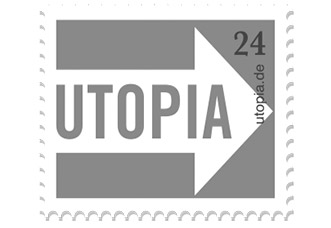
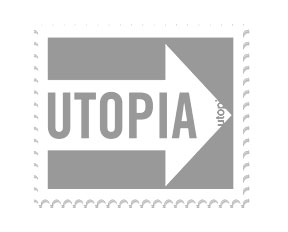
Update of press page
* added new assets
* remove old assets
* renamed components and links to habe consistent english
* updated Press component itself

diff --git a/src/views/Press.jsx b/src/views/Press.jsx
@@ -1,7 +1,7 @@
 import React from 'react';
 import Footer from '../components/Footer';
 
-export default function Presse() {
+export default function Press() {
   const Article = (props) => (
     <div className="bg-kaki p-4 mb-4 mt-4 font-open-sans w-full">
       <div className="text-xs text-gray-700">{props.date}</div>
@@ -124,32 +124,53 @@ export default function Presse() {
           </div>
         </div>
         <div className="my-8 flex flex-wrap mb-16">
-          <div className="w-1/3 h-auto">
-            <img alt="bunte" src={require('../assets/bunte_de.jpg')} />
+          <div className="w-1/4 h-auto">
+            <img alt="zdf" src={require('../assets/zdf.jpg')} />
           </div>
-          <div className="w-1/3 h-auto">
-            <img alt="businessinsider" src={require('../assets/business_insider.jpg')} />
+          <div className="w-1/4 h-auto">
+            <img alt="sueddeutsche_zeitung" src={require('../assets/sueddeutsche_zeitung.jpg')} />
           </div>
-          <div className="w-1/3 h-auto">
-            <img alt="rpr1" src={require('../assets/rpr1.jpg')} />
-          </div>
-          <div className="w-1/3 h-auto">
-            <img alt="utopia" src={require('../assets/utopia.jpg')} />
-          </div>
-          <div className="w-1/3 h-auto">
-            <img alt="bigfm" src={require('../assets/bigfm.jpg')} />
-          </div>
-          <div className="w-1/3 h-auto">
-            <img alt="br" src={require('../assets/br.jpg')} />
-          </div>
-          <div className="w-1/3 h-auto">
-            <img alt="cosmo" src={require('../assets/cosmo.jpg')} />
-          </div>
-          <div className="w-1/3 h-auto">
+          <div className="w-1/4 h-auto">
             <img alt="sat1" src={require('../assets/sat1.jpg')} />
           </div>
-          <div className="w-1/3 h-auto">
-            <img alt="zdf" src={require('../assets/zdf.jpg')} />
+          <div className="w-1/4 h-auto">
+            <img alt="berliner_morgenpost" src={require('../assets/berliner_morgenpost.jpg')} />
+          </div>
+          <div className="w-1/4 h-auto">
+            <img alt="deutschlandfunk" src={require('../assets/deutschlandfunk.jpg')} />
+          </div>
+          <div className="w-1/4 h-auto">
+            <img alt="wdr" src={require('../assets/wdr.jpg')} />
+          </div>
+          <div className="w-1/4 h-auto">
+            <img alt="hr" src={require('../assets/hr.jpg')} />
+          </div>
+          <div className="w-1/4 h-auto">
+            <img alt="br" src={require('../assets/br.jpg')} />
+          </div>
+          <div className="w-1/4 h-auto">
+            <img alt="welt" src={require('../assets/welt.jpg')} />
+          </div>
+          <div className="w-1/4 h-auto">
+            <img alt="focus_online" src={require('../assets/focus_online.jpg')} />
+          </div>
+          <div className="w-1/4 h-auto">
+            <img alt="greenpeace_magazin" src={require('../assets/greenpeace_magazin.jpg')} />
+          </div>
+          <div className="w-1/4 h-auto">
+            <img alt="aktion_mensch" src={require('../assets/aktion_mensch.jpg')} />
+          </div>
+          <div className="w-1/4 h-auto">
+            <img alt="utopia" src={require('../assets/utopia.jpg')} />
+          </div>
+          <div className="w-1/4 h-auto">
+            <img alt="vogue" src={require('../assets/vogue.jpg')} />
+          </div>
+          <div className="w-1/4 h-auto">
+            <img alt="cosmopolitan" src={require('../assets/cosmopolitan.jpg')} />
+          </div>
+          <div className="w-1/4 h-auto">
+            <img alt="bunte_de" src={require('../assets/bunte_de.jpg')} />
           </div>
         </div>
         {articles.map((article) => <Article {...article} key={article.link} />)}

diff --git a/src/App.jsx b/src/App.jsx
@@ -32,7 +32,7 @@ import CompleteOfferHelp from './views/CompleteOfferHelp';
 import NotifyMe from './views/NotifyMe';
 import ScrollToTop from './components/ScrollToTop';
 import ShareButtons from './components/ShareButtons';
-import Presse from './views/Presse';
+import Press from './views/Press';
 import createEventListener from './util/createEventListener';
 import Security from './views/Security';
 
@@ -84,7 +84,7 @@ function App(props) {
               <button type="button" data-cy="btn-sign-out" className="mr-4 font-open-sans text-gray-700" to="#" onClick={signOut}>{t('components.desktopMenu.signOut')}</button>
             </>
           )}
-          <Link className="mr-6 font-open-sans text-gray-700" to="/presse">{t('App.press')}</Link>
+          <Link className="mr-6 font-open-sans text-gray-700" to="/press">{t('App.press')}</Link>
           <ShareButtons />
         </div>
         <div className="phone-width bg-white shadow-xl min-h-screen md:mt-6">
@@ -147,8 +147,8 @@ function App(props) {
                 <Route path="/dsgvo">
                   <DSGVO />
                 </Route>
-                <Route path="/presse">
-                  <Presse />
+                <Route path="/press">
+                  <Press />
                 </Route>
                 <Route path="/notify-me">
                   <NotifyMe />

diff --git a/src/components/Sidebar.jsx b/src/components/Sidebar.jsx
@@ -51,7 +51,7 @@ export default function Sidebar(props) {
       {menuProps.isLoggedIn && <MenuItem to="/dashboard">{t('components.sidebar.yourOverview')}</MenuItem>}
       <MenuItem to="/faq">{t('components.sidebar.FAQs')}</MenuItem>
       <MenuItem to="/security-tips">{t('components.sidebar.safety')}</MenuItem>
-      <MenuItem to="/presse">{t('components.sidebar.press')}</MenuItem>
+      <MenuItem to="/press">{t('components.sidebar.press')}</MenuItem>
       <MenuItem to="/impressum">{t('components.sidebar.legal')}</MenuItem>
       <MenuItem to="/dsgvo">{t('components.sidebar.privacy')}</MenuItem>
 
